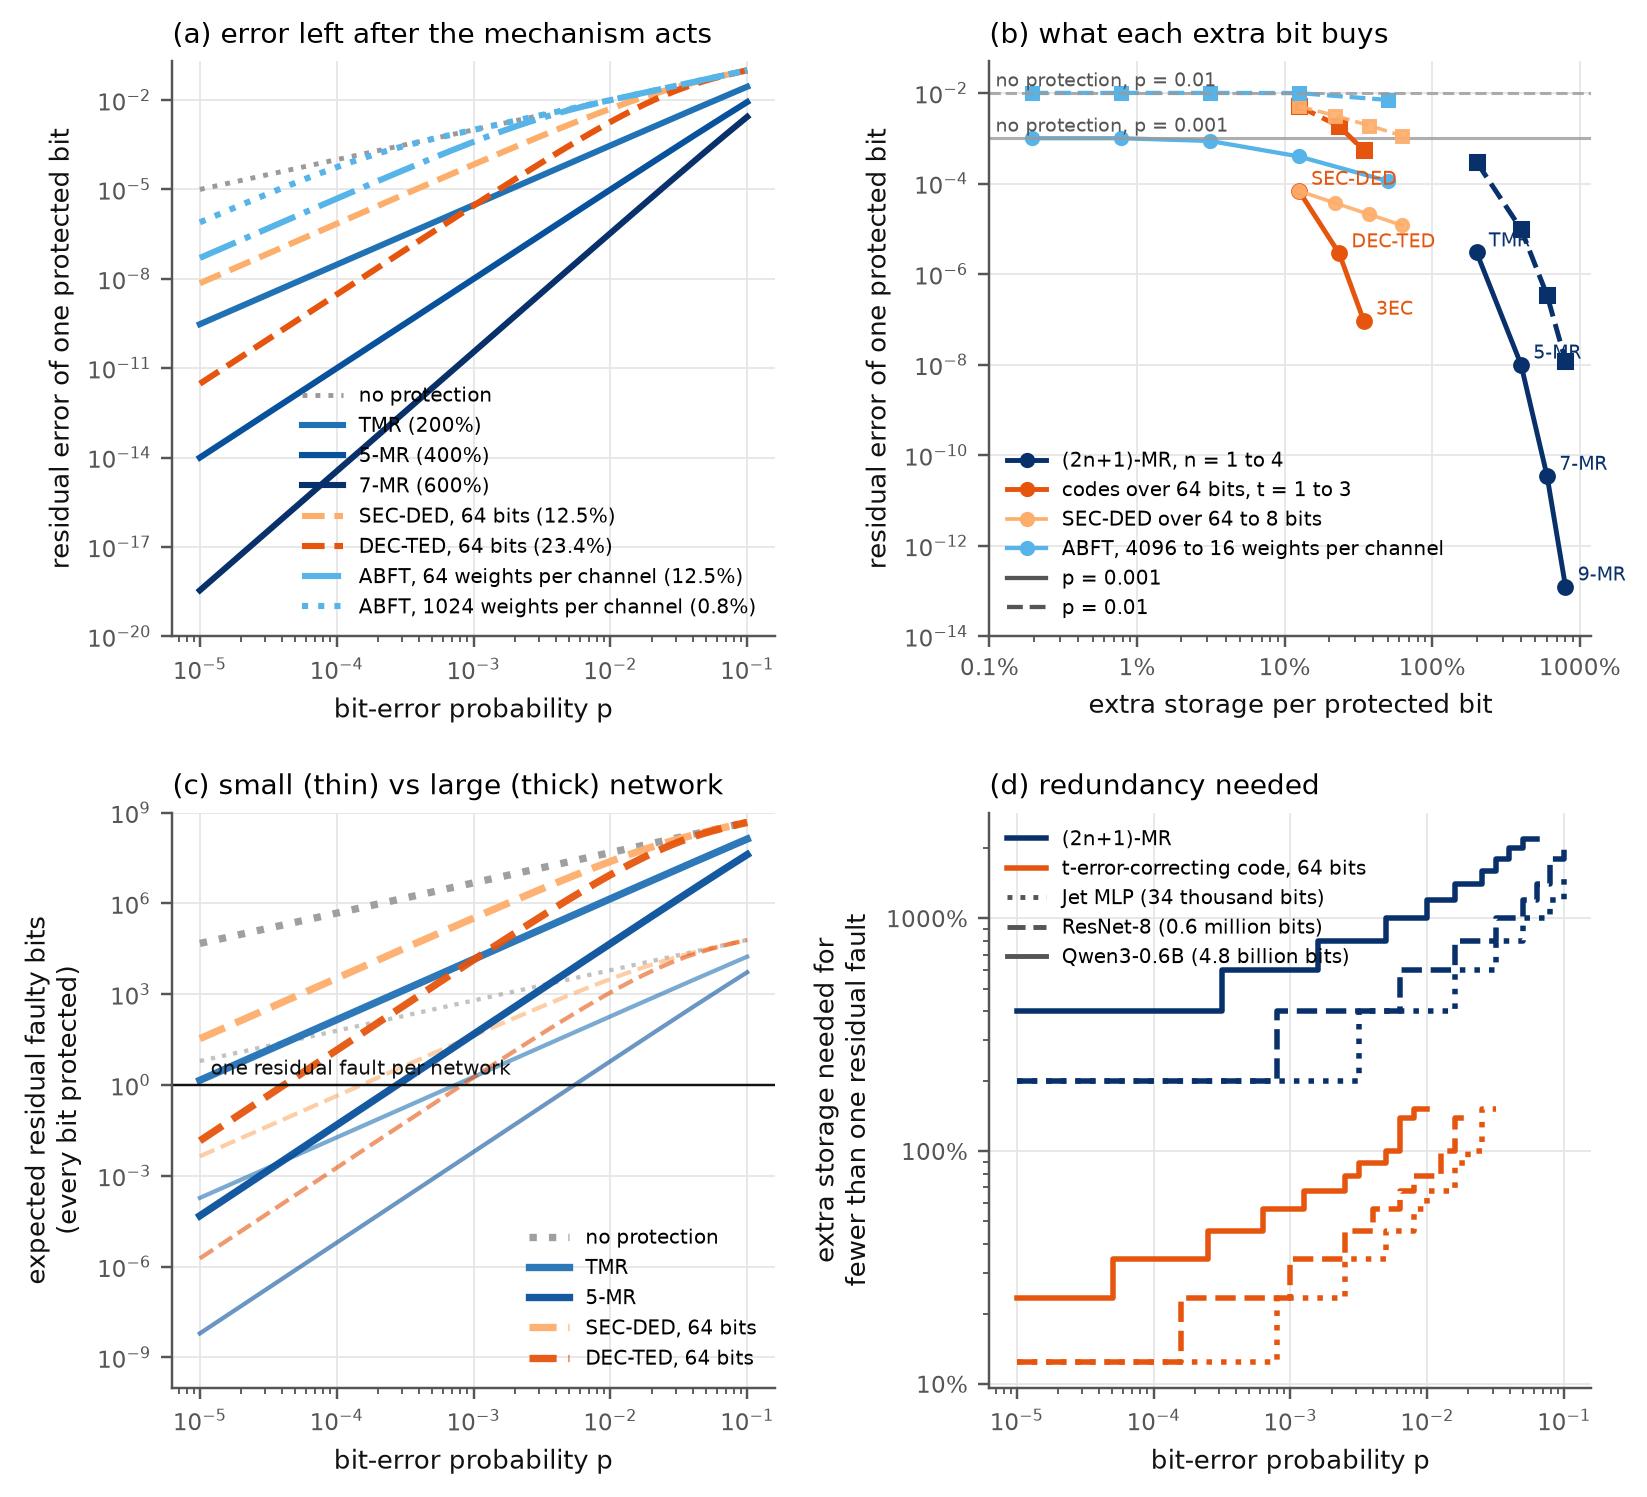
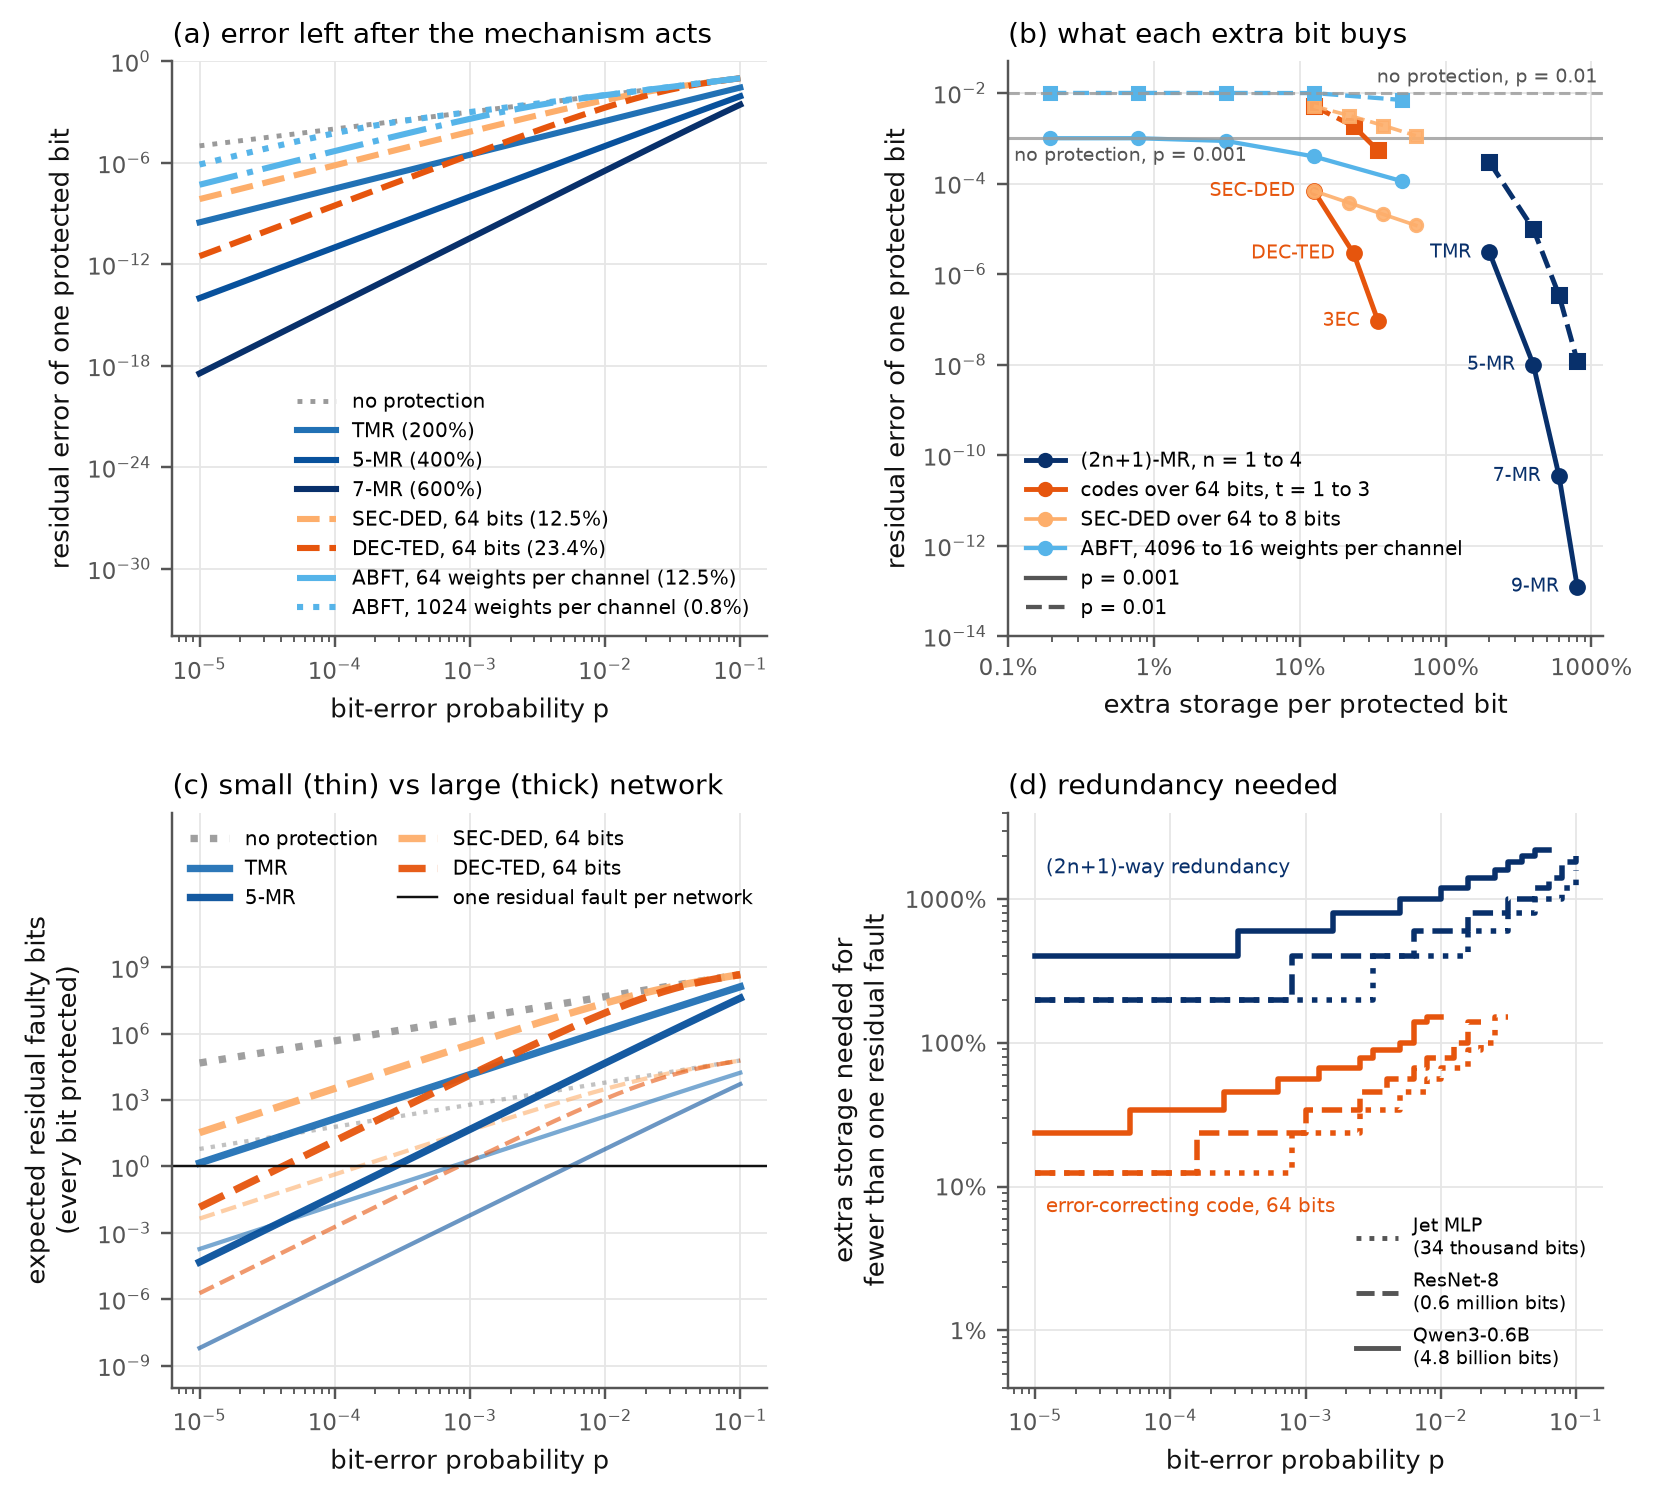
Analytical mechanism figure: labels and legends moved off the lines

diff --git a/publications/paper1_review/scripts/build_mechanism_analytic.py b/publications/paper1_review/scripts/build_mechanism_analytic.py
@@ -56,11 +56,12 @@ def panel_a(ax):
     for m, ls in ((64, "-."), (1024, ":")):
         ax.plot(P, [A.abft_residual(p, m) for p in P], color=ABFT, lw=2, ls=ls, label=f"ABFT, {m} weights per channel ({A.abft_cost(m):.1%})")
     ax.set_xscale("log"); ax.set_yscale("log")
-    ax.set_ylim(1e-20, 0.2)
+    ax.set_ylim(1e-34, 0.5)
+    ax.set_yticks([1e-30, 1e-24, 1e-18, 1e-12, 1e-6, 1])
     ax.set_xlabel("bit-error probability p")
     ax.set_ylabel("residual error of one protected bit")
     ax.set_title("(a) error left after the mechanism acts", loc="left")
-    ax.legend(fontsize=6.6, loc="lower right")
+    ax.legend(fontsize=6.4, loc="lower right", ncol=1)
 
 
 def panel_b(ax):
@@ -70,14 +71,15 @@ def panel_b(ax):
         ax.plot(xs, ys, ls, color=MR[3], marker=mk, ms=4.5, lw=1.6)
         for n, x, y in zip((1, 2, 3, 4), xs, ys):
             if p == 1e-3:
-                ax.annotate(label_mr(n), (x, y), xytext=(4, 2), textcoords="offset points", fontsize=6.3, color=MR[3])
+                ax.annotate(label_mr(n), (x, y), xytext=(-6, 0), textcoords="offset points", fontsize=6.3, color=MR[3],
+                            ha="right", va="center")
         xs = [A.code_cost(64, t) for t in (1, 2, 3)]
         ys = [A.code_residual(p, 64, t) for t in (1, 2, 3)]
         ax.plot(xs, ys, ls, color=CODE[2], marker=mk, ms=4.5, lw=1.6)
         if p == 1e-3:
             for t, x, y in zip((1, 2, 3), xs, ys):
-                ax.annotate(label_code(t).split(",")[0].replace("3-error-correcting", "3EC"), (x, y), xytext=(4, 2),
-                            textcoords="offset points", fontsize=6.3, color=CODE[2])
+                ax.annotate(label_code(t).split(",")[0].replace("3-error-correcting", "3EC"), (x, y), xytext=(-6, 0),
+                            textcoords="offset points", fontsize=6.3, color=CODE[2], ha="right", va="center")
         xs = [A.code_cost(k) for k in (64, 32, 16, 8)]
         ys = [A.code_residual(p, k) for k in (64, 32, 16, 8)]
         ax.plot(xs, ys, ls, color=CODE[1], marker=mk, ms=4, lw=1.2, alpha=0.9)
@@ -86,7 +88,10 @@ def panel_b(ax):
         ys = [A.abft_residual(p, m) for m in ms_]
         ax.plot(xs, ys, ls, color=ABFT, marker=mk, ms=4, lw=1.4)
         ax.axhline(p, color=S.NONE, lw=1, ls=ls, alpha=0.8)
-        ax.text(1.1e-3, p * 1.4, f"no protection, p = {p:g}", fontsize=6.3, color=S.INK2)
+        if p == 1e-2:
+            ax.text(11, p * 1.35, f"no protection, p = {p:g}", fontsize=6.3, color=S.INK2, ha="right", va="bottom")
+        else:
+            ax.text(1.1e-3, p / 1.5, f"no protection, p = {p:g}", fontsize=6.3, color=S.INK2, ha="left", va="top")
     ax.set_xscale("log"); ax.set_yscale("log")
     ax.set_xlim(1e-3, 12); ax.set_ylim(1e-14, 0.05)
     ax.xaxis.set_major_formatter(matplotlib.ticker.FuncFormatter(lambda v, _: f"{v:.1%}" if v < 0.01 else f"{v:.0%}"))
@@ -109,14 +114,14 @@ def panel_c(ax):
                                   (lambda p: A.code_residual(p, 64, 2), CODE[2], "--", "DEC-TED, 64 bits")):
             ax.plot(P, [res(p) * bits for p in P], ls, color=col, lw=lw, alpha=0.95 if lw > 2 else 0.6,
                     label=f"{lab}" if lw > 2 else None)
-    ax.axhline(1, color=S.INK, lw=0.8)
-    ax.text(1.2e-5, 2.2, "one residual fault per network", fontsize=6.5, color=S.INK)
+    ax.axhline(1, color=S.INK, lw=0.8, label="one residual fault per network")
     ax.set_xscale("log"); ax.set_yscale("log")
-    ax.set_ylim(1e-10, 1e9)
+    ax.set_ylim(1e-10, 1e16)
+    ax.set_yticks([1e-9, 1e-6, 1e-3, 1, 1e3, 1e6, 1e9])
     ax.set_xlabel("bit-error probability p")
     ax.set_ylabel("expected residual faulty bits\n(every bit protected)")
     ax.set_title("(c) small (thin) vs large (thick) network", loc="left")
-    ax.legend(fontsize=6.6, loc="lower right")
+    ax.legend(fontsize=6.4, loc="upper left", ncol=2, columnspacing=1.0)
 
 
 def panel_d(ax):
@@ -130,14 +135,16 @@ def panel_d(ax):
             ax.step(rates, ys, where="post", color=col, ls=styles[name], lw=1.8)
             OUT["needed"][f"{fam}/{name}"] = dict(rates=rates.tolist(), extra_storage=ys)
     ax.set_xscale("log"); ax.set_yscale("log")
+    ax.set_ylim(0.004, 40)
     ax.yaxis.set_major_formatter(matplotlib.ticker.FuncFormatter(lambda v, _: f"{v:.0%}"))
     ax.set_xlabel("bit-error probability p")
     ax.set_ylabel("extra storage needed for\nfewer than one residual fault")
     ax.set_title("(d) redundancy needed", loc="left")
+    ax.text(1.2e-5, 14, "(2n+1)-way redundancy", fontsize=6.6, color=MR[3], va="bottom")
+    ax.text(1.2e-5, 0.085, "error-correcting code, 64 bits", fontsize=6.6, color=CODE[2], va="top")
     from matplotlib.lines import Line2D
-    h = [Line2D([], [], color=MR[3], lw=1.8), Line2D([], [], color=CODE[2], lw=1.8)] + \
-        [Line2D([], [], color=S.INK2, lw=1.6, ls=styles[n]) for n in NETS]
-    ax.legend(h, ["(2n+1)-MR", "t-error-correcting code, 64 bits"] + list(NETS), fontsize=6.4, loc="upper left")
+    h = [Line2D([], [], color=S.INK2, lw=1.6, ls=styles[n]) for n in NETS]
+    ax.legend(h, [n.replace(" (", "\n(") for n in NETS], fontsize=6.2, loc="lower right", handlelength=2.2)
 
 
 def main():
